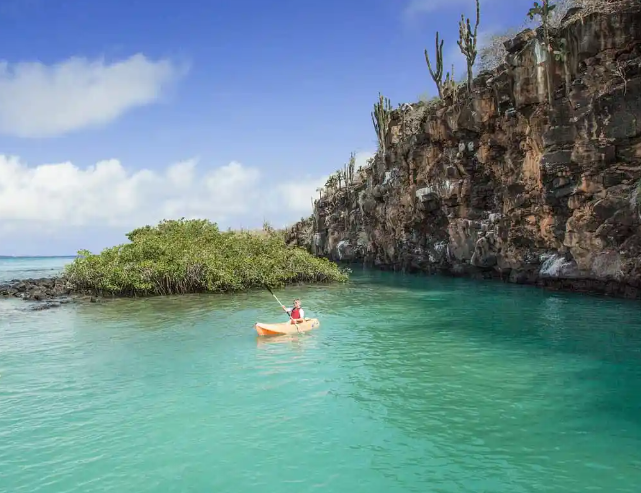
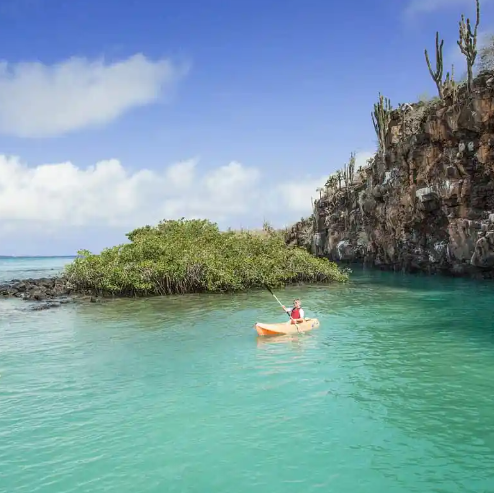
made card img and embed better

diff --git a/index.html b/index.html
@@ -60,8 +60,6 @@
                 />
                 <iframe
                   src="https://www.google.com/maps/embed?pb=!1m18!1m12!1m3!1d16163.87313533002!2d-89.61840250482008!3d-0.9008324388324036!2m3!1f0!2f0!3f0!3m2!1i1024!2i768!4f13.1!3m3!1m2!1s0x9000e9e6ac2934ef%3A0x5b854eb762391b44!2sGalakiwi!5e0!3m2!1ssv!2sse!4v1703549847687!5m2!1ssv!2sse"
-                  width="600"
-                  height="450"
                   style="border: 0"
                   allowfullscreen=""
                   loading="lazy"
@@ -96,8 +94,6 @@
                 />
                 <iframe
                   src="https://www.google.com/maps/embed?pb=!1m18!1m12!1m3!1d31914.121338820874!2d-90.9847887408564!3d-0.9540886297253225!2m3!1f0!2f0!3f0!3m2!1i1024!2i768!4f13.1!3m3!1m2!1s0x902d73c3b4e5b781%3A0xf2416d8185e40439!2sGal%C3%A1pagos%20Native%20Tour%20Operator!5e0!3m2!1ssv!2sse!4v1703548088886!5m2!1ssv!2sse"
-                  width="600"
-                  height="450"
                   style="border: 0"
                   allowfullscreen=""
                   loading="lazy"
@@ -132,8 +128,6 @@
                 />
                 <iframe
                   src="https://www.google.com/maps/embed?pb=!1m18!1m12!1m3!1d1582.1205682021236!2d-90.31324537934785!3d-0.7455120373284335!2m3!1f0!2f0!3f0!3m2!1i1024!2i768!4f13.1!3m3!1m2!1s0x9aaa5de6968a9e4d%3A0x45d9ea3876b4fc13!2sGuiding%20Galapagos%20Expeditions!5e0!3m2!1ssv!2sse!4v1703550246457!5m2!1ssv!2sse"
-                  width="600"
-                  height="450"
                   style="border: 0"
                   allowfullscreen=""
                   loading="lazy"
